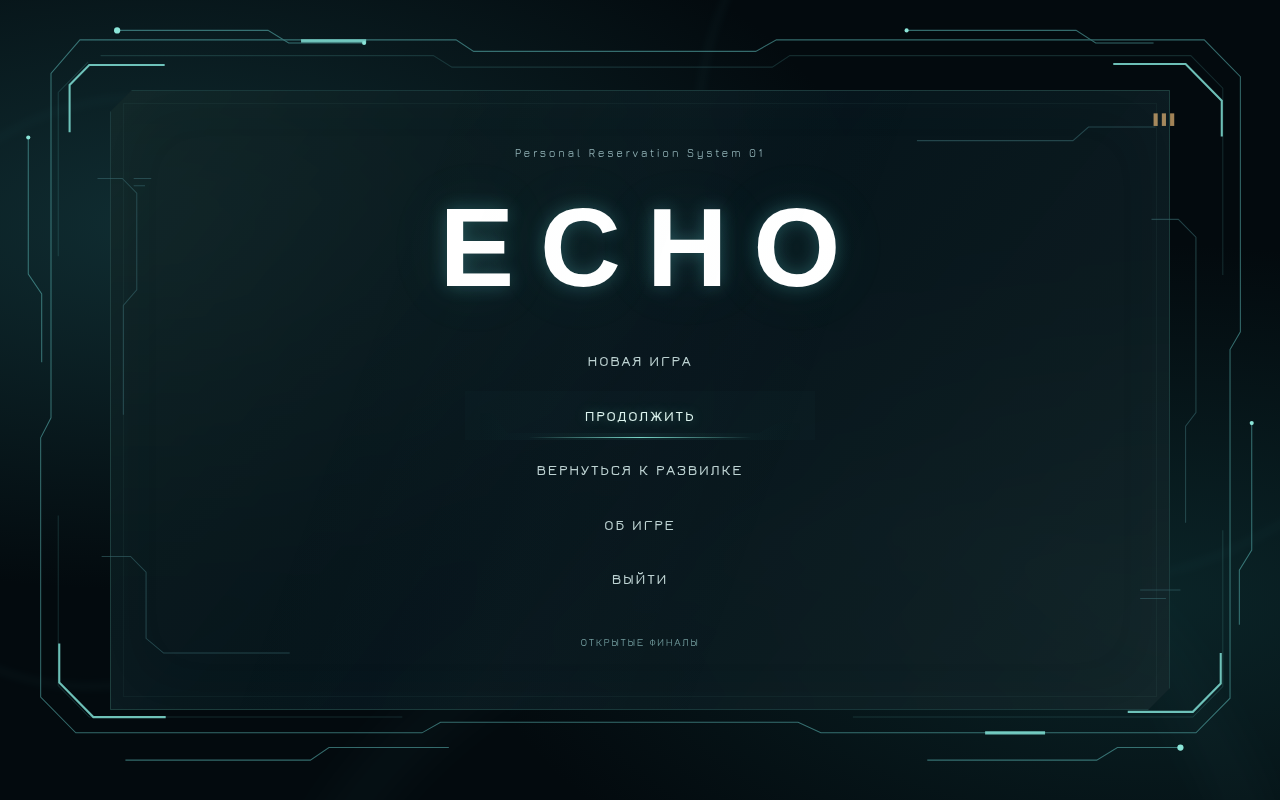
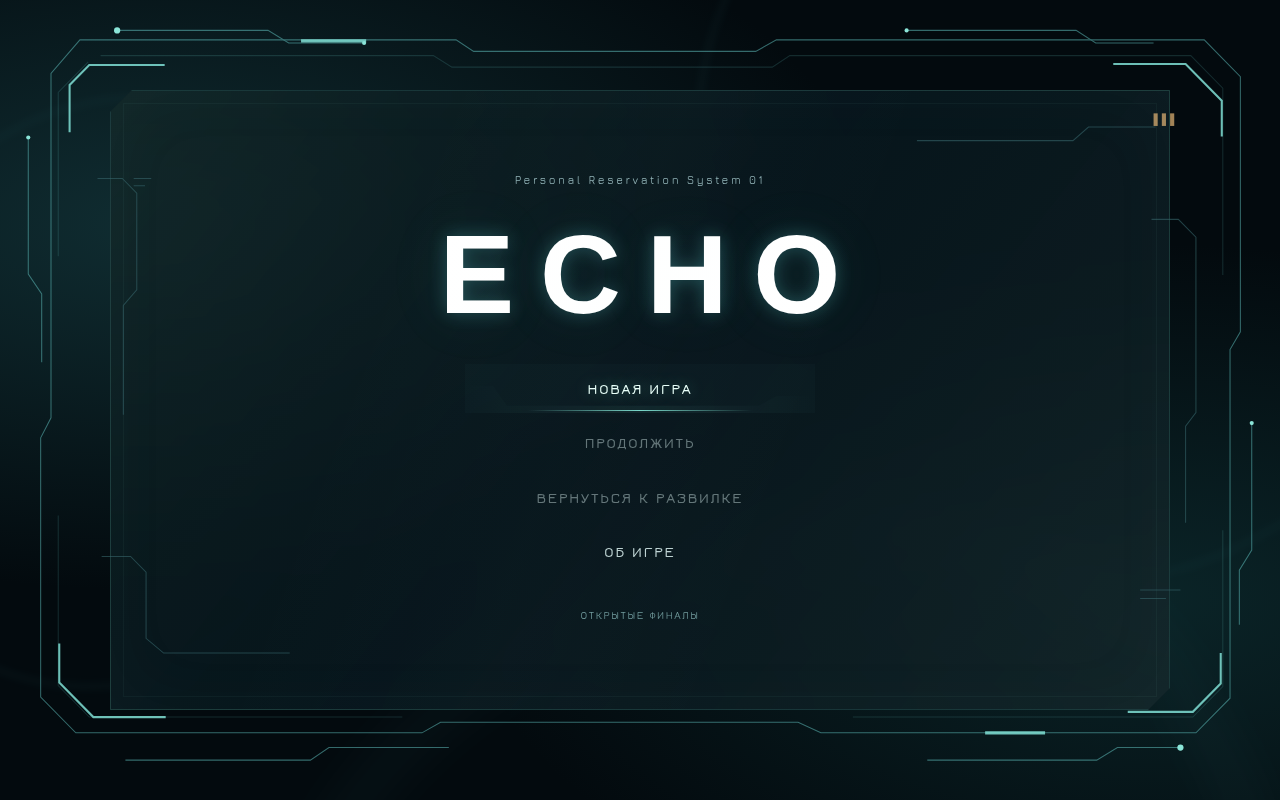
Restore intro and lock replay controls until first completed run

diff --git a/src/game.js b/src/game.js
@@ -108,8 +108,6 @@ export class Game {
         document.getElementById('btn-endings-back')?.addEventListener('click', () => this._showScreen('menu-screen'));
         document.getElementById('btn-about')?.addEventListener('click', () => this._showScreen('about-screen'));
         document.getElementById('btn-about-back')?.addEventListener('click', () => this._showScreen('menu-screen'));
-        document.getElementById('btn-exit-back')?.addEventListener('click', () => {this.state='menu';this._showScreen('menu-screen');});
-        document.getElementById('btn-exit')?.addEventListener('click', () => this.exitGame());
         if (startBtn) startBtn.addEventListener('click', () => this.startNewGame());
         if (continueBtn) continueBtn.addEventListener('click', () => this.continueGame());
         if (resumeBtn) resumeBtn.addEventListener('click', () => this.resume());
@@ -130,16 +128,16 @@ export class Game {
             const hasSave = typeof SaveSystem.hasSave === 'function'
                 ? SaveSystem.hasSave()
                 : !!localStorage.getItem('echo_save');
-            continueBtn.disabled = !hasSave;
-            continueBtn.hidden = !hasSave;
+            continueBtn.disabled = !hasSave || this.unlockedEndings.size === 0;
+            continueBtn.hidden = false;
         }
         const branch = document.getElementById('btn-return-branch');
-        if (branch) branch.hidden = !this.branchCheckpoint;
+        if (branch) {branch.hidden=false;branch.disabled=!this.branchCheckpoint || this.unlockedEndings.size===0;}
         if (this.ui) this.ui.updateEndingsCounter();
     }
 
     _showScreen(id) {
-        document.body.classList.toggle('menu-view', ['menu-screen','about-screen','exit-screen','endings-screen'].includes(id));
+        document.body.classList.toggle('menu-view', ['menu-screen','about-screen','endings-screen'].includes(id));
         document.querySelectorAll('.screen').forEach(el => el.classList.remove('active'));
         if (id) {
             const el = document.getElementById(id);
@@ -160,12 +158,11 @@ export class Game {
         this.introSeen = false;
         this._showScreen(null);
         this.ui.resetForMenu();
-        this.state = 'play';
-        this.introSeen = true;
+        this.state = 'intro';
+        this.introSeen = false;
         this._loadLevel(0);
         if (document.pointerLockElement) document.exitPointerLock();
-        this._requestPointerLock();
-        this._startWhispers();
+        this.intro.start();
     }
 
     _onIntroFinished() {
@@ -181,7 +178,7 @@ export class Game {
     }
 
     continueGame() {
-        if (!SaveSystem.hasSave()) return;
+        if (!SaveSystem.hasSave() || this.unlockedEndings.size===0) return;
         this.audioCtx?.resume().catch(()=>{});
         const save = SaveSystem.load();
         this.hasActiveRun = true;
@@ -297,20 +294,11 @@ export class Game {
 
     returnToBranch() {
         const cp=this.branchCheckpoint;
-        if(!cp)return;
+        if(!cp || this.unlockedEndings.size===0)return;
         this.intro?.stop();this.finishRecoveredRecording();this.ui.resetForMenu();
         this.memory=new Memory();this.memory.load(cp.memory);this.memory.moralChoice=null;
         this.completedEnding=null;this.introSeen=true;this.hasActiveRun=true;
         this._showScreen(null);this.state='play';this._loadLevel(1);this._restorePlayer(cp.player);this.saveState();this.openMoralChoice();
-    }
-
-    exitGame() {
-        if(this.hasActiveRun)this.backToMenu();
-        this.recording?.stop();this.intro?.stop();this._stopWhispers();this.audioCtx?.suspend();
-        this.state='exited';
-        this._showScreen('exit-screen');
-        // Browsers only permit closing windows that were opened by script.
-        if(window.opener)window.close();
     }
 
     /* ================= Звук (alias) ================= */
@@ -732,7 +720,6 @@ export class Game {
     _animate() {
         requestAnimationFrame(() => this._animate());
         const dt = Math.min(this.clock.getDelta(), 0.05);
-        if(this.state==='exited')return;
 
         if (this.state === 'play') {
             if (this.player) this.player.update(dt);

diff --git a/style.css b/style.css
@@ -887,3 +887,40 @@ body.menu-view #subtitle-box, body.menu-view #interact-prompt { display:none !im
     #menu-screen .main-menu-actions .menu-btn { padding:9px 10px; font-size:13px; }
 }
 @media(prefers-reduced-motion:reduce) { #menu-screen .menu-btn,#menu-screen .menu-btn::before,#menu-screen .menu-btn::after { transition:none; } }
+
+/* Dialogs share the frosted terminal treatment and text controls. */
+:is(#moral-overlay,#ending-overlay,#note-overlay) .menu-btn { position:relative; min-width:0; border:0; border-radius:0; background:transparent; box-shadow:none; padding:15px 14px;
+    font-family:'ECHO Interface',sans-serif; font-size:15px; font-weight:600; line-height:1.3; letter-spacing:.12em; text-transform:uppercase; color:#bed3d3;
+    transition:color .18s ease,background .18s ease,text-shadow .18s ease;
+}
+:is(#moral-overlay,#ending-overlay,#note-overlay) .menu-btn::before { content:''; position:absolute; inset:0; pointer-events:none;
+    background:linear-gradient(90deg,transparent,#71d9c411,transparent);
+    border-bottom:1px solid #79d7c900; clip-path:polygon(0 45%,8% 45%,12% 85%,84% 85%,89% 65%,100% 65%,100% 100%,0 100%); opacity:0; transition:opacity .18s ease;
+}
+:is(#moral-overlay,#ending-overlay,#note-overlay) .menu-btn::after { content:''; position:absolute; bottom:2px; left:18%; right:18%; height:1px;
+    background:linear-gradient(90deg,transparent,#79d7c9,transparent); opacity:0; transition:opacity .18s ease;
+}
+:is(#moral-overlay,#ending-overlay,#note-overlay) .menu-btn:is(:hover,:focus-visible) { color:#e9fff9; text-shadow:0 0 16px #8affd578; background:#76d3c606; outline:none; }
+:is(#moral-overlay,#ending-overlay,#note-overlay) .menu-btn:is(:hover,:focus-visible)::before,
+:is(#moral-overlay,#ending-overlay,#note-overlay) .menu-btn:is(:hover,:focus-visible)::after { opacity:1; }
+:is(#moral-overlay,#ending-overlay,#note-overlay) .menu-btn:active { color:#fff; background:#92d9c517; }
+:is(#moral-overlay,#ending-overlay,#note-overlay) .menu-btn:disabled { opacity:.35; cursor:wait; }
+
+#menu-screen .main-menu-actions .menu-btn:disabled,
+:is(#moral-overlay,#ending-overlay,#note-overlay) .menu-btn:disabled { opacity:.5; cursor:default; color:#bed3d3; background:transparent; text-shadow:none; box-shadow:none; }
+#menu-screen .main-menu-actions .menu-btn:disabled::before,
+#menu-screen .main-menu-actions .menu-btn:disabled::after { opacity:0; }
+:is(#moral-overlay,#ending-overlay,#note-overlay) { overflow-y:auto; scrollbar-width:none; padding:clamp(16px,4vh,40px); }
+:is(#moral-overlay,#ending-overlay,#note-overlay)::-webkit-scrollbar { display:none; }
+:is(#moral-overlay,#ending-overlay,#note-overlay) > div {
+    flex-shrink:0; max-height:none; overflow:visible; border:1px solid #74cdb64a;
+    background:linear-gradient(128deg,#10292aea,#07161df2 47%,#13282ced);
+    -webkit-backdrop-filter:blur(22px); backdrop-filter:blur(22px);
+    box-shadow:inset 0 0 50px #72c8ca08,0 20px 80px #0009;
+}
+:is(#moral-overlay,#ending-overlay,#note-overlay) :is(h2,.menu-btn) { font-family:'ECHO Interface',sans-serif; }
+:is(#moral-overlay,#ending-overlay,#note-overlay) :is(.note-text,.ending-text) { max-height:none; overflow:visible; font-size:clamp(13px,1.6vh,16px); line-height:1.65; }
+#ending-choice { gap:12px; }
+#ending-choice .ending-option { align-items:center; text-align:center; }
+#ending-choice .ending-option small { line-height:1.5; font-family:'ECHO Interface',sans-serif; }
+@media(max-height:650px) { :is(#moral-overlay,#ending-overlay,#note-overlay) > div { padding:20px; margin:auto; } :is(#moral-overlay,#ending-overlay,#note-overlay) h2 { margin:6px 0 14px; } }

diff --git a/index.html b/index.html
@@ -45,10 +45,9 @@
         <h1 class="echo-logo">ECHO</h1>
         <nav class="main-menu-actions" aria-label="Главное меню">
             <button id="btn-start" class="menu-btn">Новая игра</button>
-            <button id="btn-continue" class="menu-btn" hidden>Продолжить</button>
-            <button id="btn-return-branch" class="menu-btn" hidden>Вернуться к развилке</button>
+            <button id="btn-continue" class="menu-btn" disabled>Продолжить</button>
+            <button id="btn-return-branch" class="menu-btn" disabled>Вернуться к развилке</button>
             <button id="btn-about" class="menu-btn">Об игре</button>
-            <button id="btn-exit" class="menu-btn">Выйти</button>
         </nav>
         <button id="btn-endings" class="menu-text-btn" type="button">Открытые финалы</button>
         </div>
@@ -65,11 +64,6 @@
         <p class="about-copy">После катастрофы главный инженер просыпается в комплексе восстановления памяти ECHO. Детский рисунок, оборванная передача и повреждённые документы связывают его с прошлым. Ему предстоит решить, какую ответственность он готов принять и что сделать со своими воспоминаниями.</p>
         <a class="about-credits" href="CREDITS.md" target="_blank" rel="noopener">Авторы и лицензии</a>
         <button id="btn-about-back" class="menu-btn">В главное меню</button>
-    </div>
-    <div id="exit-screen" class="screen">
-        <h2>Игра завершена</h2>
-        <p class="about-copy">Прогресс сохранён. Эту вкладку можно закрыть.</p>
-        <button id="btn-exit-back" class="menu-btn">В главное меню</button>
     </div>
     <div id="moral-overlay" class="overlay" role="dialog" aria-modal="true" aria-label="Первый моральный выбор">
         <div class="note-content">
@@ -111,10 +105,10 @@
     <div id="ending-overlay" class="overlay">
         <div class="ending-content">
             <div class="panel-kicker">ECHO / FINAL RESTORATION PROTOCOL</div>
-            <div id="ending-choice"></div>
-            <div id="ending-visual" class="ending-visual"></div>
             <h2 id="ending-title"></h2>
             <div id="ending-status"></div>
+            <div id="ending-choice"></div>
+            <div id="ending-visual" class="ending-visual"></div>
             <div id="ending-text" class="ending-text"></div>
             <button id="ending-back" class="menu-btn">В главное меню</button>
         </div>

diff --git a/STORY_BIBLE.md b/STORY_BIBLE.md
@@ -17,7 +17,7 @@
 Шлюз восстановления. Детский рисунок и повреждённый приёмник связывают героя
 с прошлым. В восстановленной записи — помехи, «Daddy?» и звук взрыва;
 реплика героя не повторяется. Для перехода нужны рисунок и запись.
-Новая игра начинается в этом акте. Медиа прежнего вступления сохранены.
+Новая игра начинается с исходной вступительной кат-сцены, после неё — первый акт.
 
 ## Акт 2 — ответственность
 
